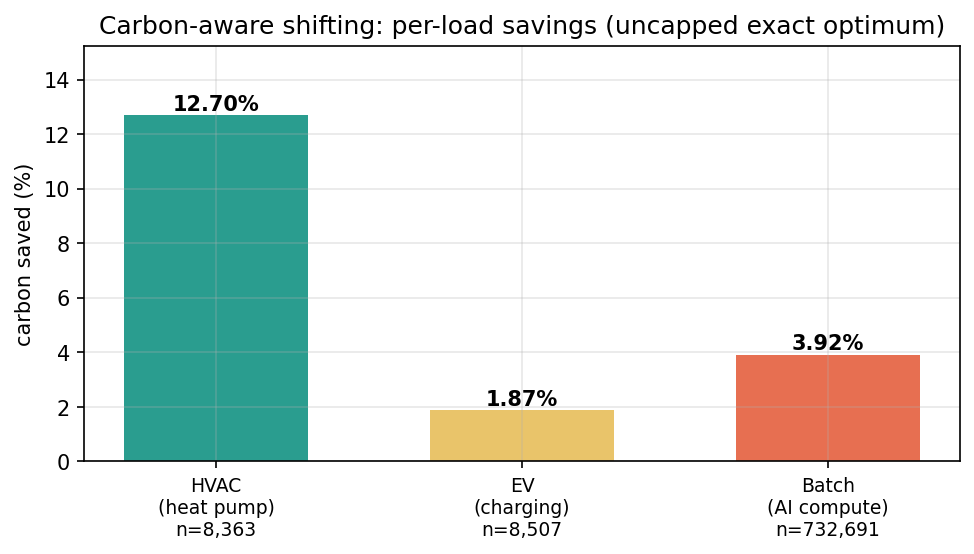
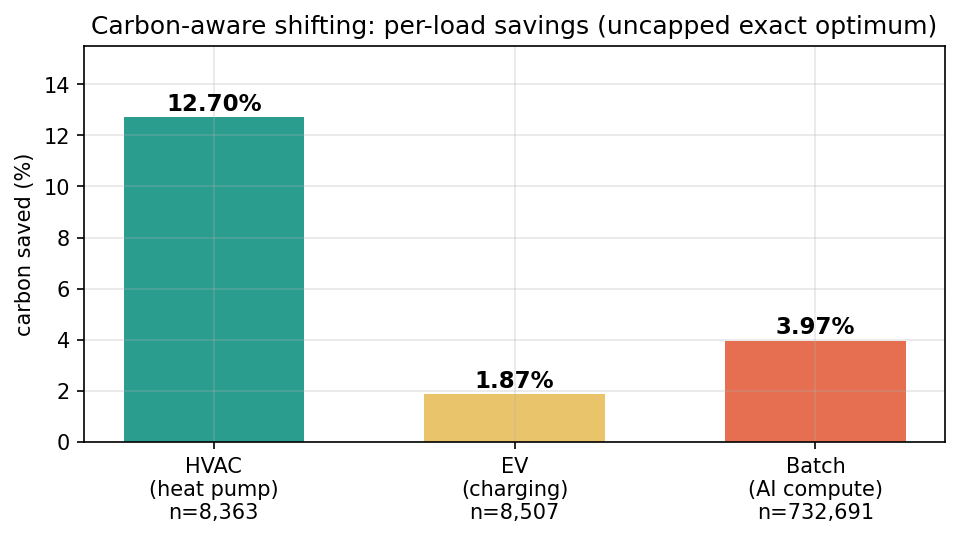
fix: causal climatology forecast, July trace anchor, bib corrections

diff --git a/cals/forecast.py b/cals/forecast.py
@@ -4,9 +4,11 @@ Oracle scheduling (what the paper's headline reports) sees the TRUE carbon curve
 A real operator sees only a FORECAST. The *forecast penalty* is how much of the
 saving is lost to imperfect foresight.
 
-    climatology_forecast : predict CI(t) as the mean over all hours sharing the
-                           same (month, hour-of-day) — the "typical" curve. Blind
-                           to today's weather, but a cheap, honest baseline.
+    climatology_forecast : CAUSAL expanding-window climatology. Predicts CI(t)
+                           from the mean of EARLIER hours sharing the same
+                           (month, hour-of-day), never from t itself or later
+                           hours. Blind to today's weather, and now genuinely
+                           out-of-sample in time.
 
     forecast_penalty     : schedule each job on the FORECAST, price it on the
                            TRUE CI, and compare against the oracle (scheduled on
@@ -20,13 +22,115 @@ import pandas as pd
 from cuad.scheduler.jobs import Job, duration_h
 
 
-def climatology_forecast(ci: pd.Series) -> pd.Series:
-    """CI forecast = mean CI for the same (month, hour-of-day) across the series."""
+def climatology_forecast(ci: pd.Series, *, return_tiers: bool = False):
+    """CAUSAL expanding-window climatology: predict CI(t) from EARLIER hours only.
+
+    For each hour t the prediction uses only observations at positions STRICTLY
+    BEFORE t in the series. No hour ever contributes to its own prediction, and
+    no later hour contributes either, so this is a forecast an operator standing
+    at time t could actually have produced.
+
+    Why this replaced the previous implementation. The old version computed the
+    (month, hour-of-day) mean with ``groupby(...).transform("mean")`` over the
+    WHOLE series and then evaluated on that same series. Every hour's prediction
+    therefore contained that hour plus every later hour sharing its (month,
+    hour-of-day) cell -- a retrospective average, not a forecast. It made the
+    reported forecast penalty an optimistic lower bound of unknown size. The
+    leaky version is retained as ``climatology_forecast_insample`` for the sole
+    purpose of reproducing the superseded figure; do not use it for a result.
+
+    Predictor, with a strictly causal fallback chain. For hour t, in order:
+      tier 1  mean of earlier hours with the SAME (month, hour-of-day)  -- the
+              intended predictor, and what almost every hour ends up using;
+      tier 2  mean of earlier hours with the same HOUR-OF-DAY, any month -- used
+              on the first occurrence of each (month, hour) cell, i.e. the first
+              day of each month, when tier 1 has no history yet;
+      tier 3  mean of ALL earlier hours -- used only on the first day of the
+              series, when even tier 2 is empty for that hour-of-day;
+      tier 0  NaN -- only the very first hour of the series, which has no history
+              of any kind. It is left NaN rather than filled, because any fill
+              would have to look forward and would reintroduce the leak.
+
+    A NaN forecast hour is not a hole in the evaluation: ``_cheapest_start``
+    compares candidate window costs with ``<``, and a NaN cost never wins, so a
+    NaN hour is simply never chosen as a placement. A job is dropped only if
+    EVERY window in its range is NaN, which one leading NaN hour cannot cause for
+    any realistic flex setting.
+
+    Parameters
+    ----------
+    ci:
+        Observed hourly carbon intensity, time-ordered.
+    return_tiers:
+        When True, return ``(forecast, tiers)`` where ``tiers`` is an int Series
+        recording which fallback tier produced each hour (0-3 as above), so a
+        caller can report how much of the series relied on a fallback.
+    """
+    idx = pd.DatetimeIndex(ci.index)
+    if not idx.is_monotonic_increasing:
+        raise ValueError(
+            "climatology_forecast requires a time-ordered series: a causal "
+            "expanding window is meaningless if the index is not sorted"
+        )
+    values = ci.to_numpy(dtype=float)
+    months = idx.month.to_numpy()
+    hours = idx.hour.to_numpy()
+
+    out = np.full(len(values), np.nan, dtype=float)
+    tiers = np.zeros(len(values), dtype=int)
+
+    # Running sums over PAST observations only; each is updated after the
+    # prediction for the current hour has been written.
+    sum_mh: dict[int, float] = {}
+    cnt_mh: dict[int, int] = {}
+    sum_h: dict[int, float] = {}
+    cnt_h: dict[int, int] = {}
+    sum_all = 0.0
+    cnt_all = 0
+
+    for i in range(len(values)):
+        cell = int(months[i]) * 100 + int(hours[i])
+        hour = int(hours[i])
+        if cnt_mh.get(cell, 0) > 0:
+            out[i] = sum_mh[cell] / cnt_mh[cell]
+            tiers[i] = 1
+        elif cnt_h.get(hour, 0) > 0:
+            out[i] = sum_h[hour] / cnt_h[hour]
+            tiers[i] = 2
+        elif cnt_all > 0:
+            out[i] = sum_all / cnt_all
+            tiers[i] = 3
+        # else: tier 0, stays NaN
+
+        v = values[i]
+        if not np.isnan(v):  # a NaN observation teaches nothing; skip the update
+            sum_mh[cell] = sum_mh.get(cell, 0.0) + v
+            cnt_mh[cell] = cnt_mh.get(cell, 0) + 1
+            sum_h[hour] = sum_h.get(hour, 0.0) + v
+            cnt_h[hour] = cnt_h.get(hour, 0) + 1
+            sum_all += v
+            cnt_all += 1
+
+    forecast = pd.Series(out, index=ci.index, name="ci_forecast_climatology_causal")
+    if return_tiers:
+        return forecast, pd.Series(tiers, index=ci.index, name="forecast_tier")
+    return forecast
+
+
+def climatology_forecast_insample(ci: pd.Series) -> pd.Series:
+    """LEAKY same-(month, hour-of-day) mean over the WHOLE series. DO NOT REPORT.
+
+    This is the superseded implementation. Each hour's prediction is the mean of
+    every hour sharing its (month, hour-of-day) cell, INCLUDING that hour itself
+    and every later one, so scoring it on the same series it was fitted to is
+    in-sample and yields an optimistic penalty. It is kept only so the previously
+    published figure remains reproducible and the correction is auditable.
+    Use ``climatology_forecast`` for anything reported.
+    """
     idx = pd.DatetimeIndex(ci.index)
     grp = pd.Series(ci.to_numpy(dtype=float), index=pd.MultiIndex.from_arrays([idx.month, idx.hour]))
     clim = grp.groupby(level=[0, 1]).transform("mean")
-    out = pd.Series(clim.to_numpy(), index=ci.index, name="ci_forecast_climatology")
-    return out
+    return pd.Series(clim.to_numpy(), index=ci.index, name="ci_forecast_climatology_insample")
 
 
 def _cheapest_start(job: Job, ci: pd.Series, dur: int):

diff --git a/notebooks/nb_utils.py b/notebooks/nb_utils.py
@@ -54,7 +54,13 @@ FIG.mkdir(exist_ok=True)
 # Real EIA ISO-NE fuel mix begins 2019-01-01, so the whole study aligns to 2019.
 CI_START = "2019-01-01"
 CI_END = "2020-01-02"  # +2-day buffer so job windows near year-end stay priceable
-DEMO_ORIGIN = pd.Timestamp("2019-06-01", tz="UTC")  # EV/AI demo loads land in 2019 too
+# Anchor for the Alibaba trace's RELATIVE timestamps (and the demo EV/AI loads).
+# The trace records seconds from an unspecified epoch, not calendar dates, so an anchor
+# is required to price it against a carbon year. Alibaba states the trace spans "the July
+# and August of 2020" (cluster-trace-gpu-v2020 README), so 2019-07-01 maps it onto the
+# same calendar dates one year earlier: season-faithful rather than arbitrary. The former
+# value of 2019-06-01 placed 34% of the window in June and was not tied to the trace at all.
+DEMO_ORIGIN = pd.Timestamp("2019-07-01", tz="UTC")
 
 # ResStock amy2018 -> 2019 carbon year. +365d for a FULL YEAR (exact day-for-day
 # bijection); the AL one-week slice uses +364d (preserves weekday). Full

diff --git a/cals/__init__.py b/cals/__init__.py
@@ -47,4 +47,8 @@ from .ai_loads import (  # noqa: E402,F401
     parse_alibaba_trace,
     uncapped_alibaba_costs,
 )
-from .forecast import climatology_forecast, forecast_penalty  # noqa: E402,F401
+from .forecast import (  # noqa: E402,F401
+    climatology_forecast,
+    climatology_forecast_insample,  # LEAKY, superseded; kept only for audit
+    forecast_penalty,
+)
